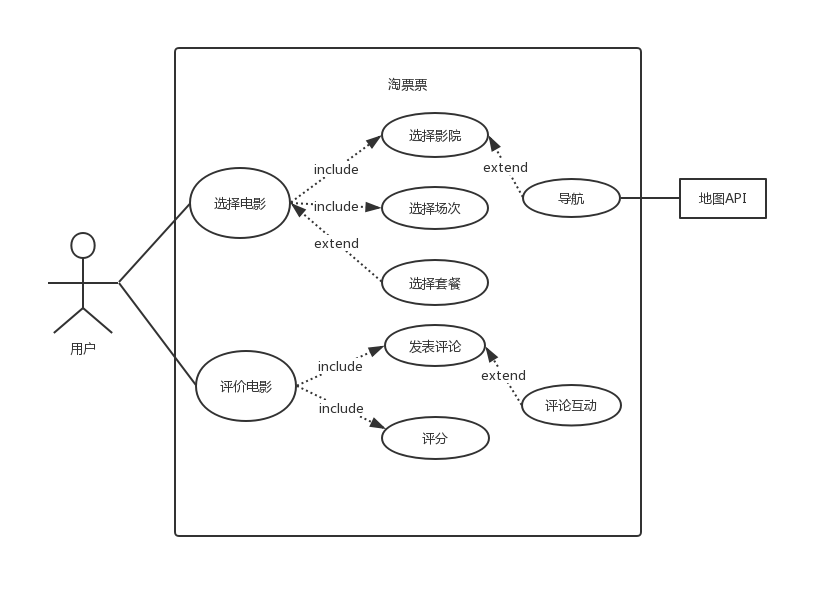
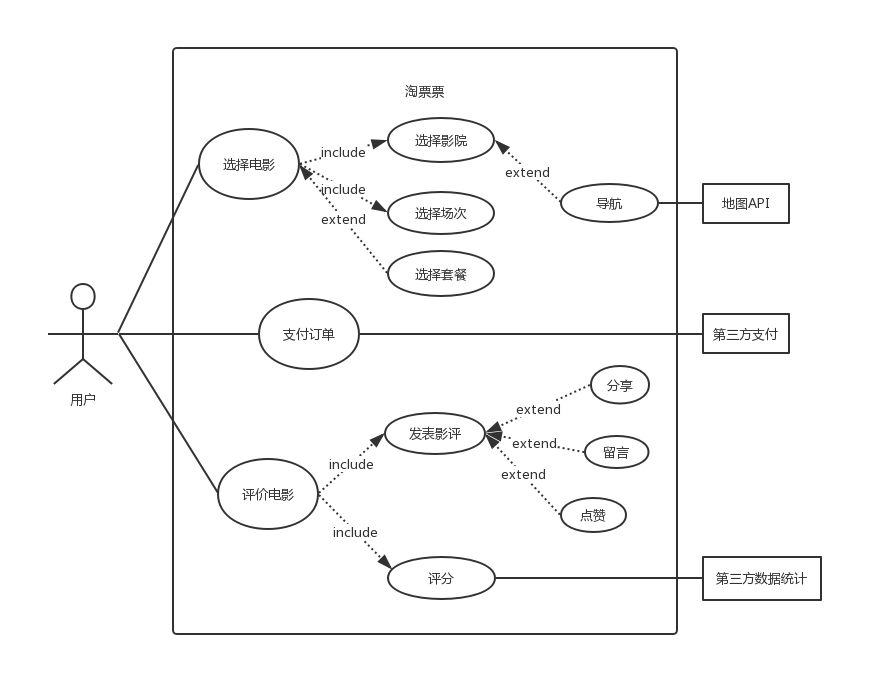
Update homework6

diff --git a/HW6/HW6.md b/HW6/HW6.md
@@ -57,6 +57,7 @@
   - 确定参与者
   - 识别用例
   - 确定关系
+  - 根据以上已确定的关系，使用用例图规范，绘制用例图
 
 - 用例图给利益相关人与开发者的价值有哪些？
 
@@ -78,6 +79,69 @@
 **淘票票**
 
 ![](images/taopiaopiao.jpg)
+
+- 为什么相似系统的用例图是相似的？
+
+  因为相似系统面对的场景都是相似的，即相似的用户的需求都无大的差异，这些需求之间的关系自然也是相似的，但这些相似系统之间除了相同的用例场景外，都会有一些自己的特色用例，以提高自身的竞争性
+
+- 如果是定旅馆业务，请对比 Asg_RH 用例图，简述如何利用不同时代、不同地区产品的用例图，展现、突出创新业务和技术。
+
+  不同时代、不同地区，用户的需求会随着社会的进步体现出很大的不同，科技技术的提升会使得产品在开发和使用上有更好的体验，比如现在的一些应用中可以对房间进行3D环绕展示，让用户更好的了解房间状况；或者是这些应用收集用户平时的使用数据，使用推荐算法进行推荐展示等等，再加上如今很流行的筛选功能，都使得产品具有了很强的时代性，而这些时代性本身就是创新业务和技术的体现。
+
+- 请使用 SCRUM 方法，选择一个用例图，编制某定旅馆开发的需求（backlog）开发计划表
+
+  | ID   | Title    | Est  | Imp  | How to demo                                |
+  | ---- | -------- | ---- | ---- | ------------------------------------------ |
+  | 1    | 搜索宾馆 | 25   | 90   | 输入地点、时间、入住人信息，进行搜索       |
+  | 2    | 预定房间 | 30   | 100  | 根据搜索结果，筛选心仪的宾馆房间，进行预订 |
+  | 3    | 支付     | 15   | 80   | 提交订单并支付                             |
+  | 4    | 评价     | 10   | 60   | 用户办理退房后进行评价                     |
+
+- 根据任务4，参考 "使用用例点估算软件成本”，给出项目用例点的估算
+
+  - 按角色复杂度等级划分 **UAW**(未调整的角色的权值）
+
+    ![](images/UAW.png)
+
+    UAW = 25
+
+  - 按用例复杂度等级划分 **UUCW**(未调整的用例权值)
+
+    ![](images/UCW.png)
+
+    UUCW=90
+
+  - **UUCP**(未调整的用例点)的估算
+
+    UUCP = UAW + UUCW = 115
+
+  - **TEF**(技术和环境因子)的计算
+
+    - 技术复杂度因子**TCF**
+
+    ![](/Users/lightbai/Documents/GitHub/SWSAD/HW6/images/TCF.png)
+
+    	TCF=0.6+(0.01*42)=1.02
+
+    - 环境复杂度因子**ECF**
+
+      ![](/Users/lightbai/Documents/GitHub/SWSAD/HW6/images/ECF.png)
+
+      ECF=1.4 + (-0.03*20.5) = 0.785
+
+  - **UCP**(调整的用例点)计算
+
+    **UCP = UUCP * TCF * ECF = 92.0805**
+
+    
+
+    
+
+    
+
+    
+
+    
 
 
 
